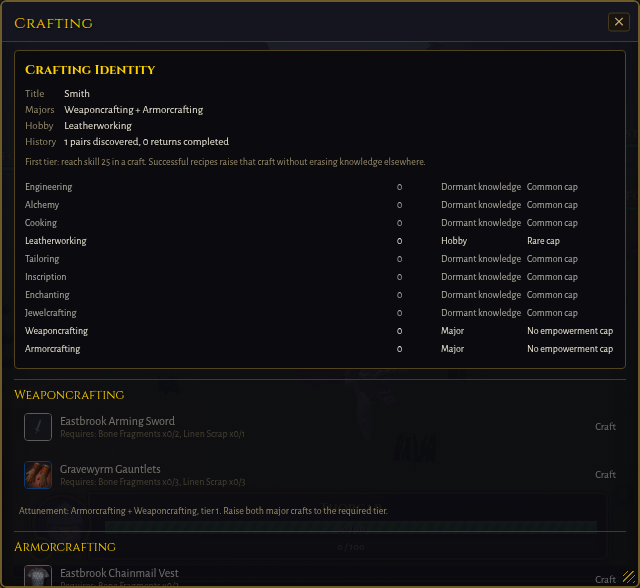
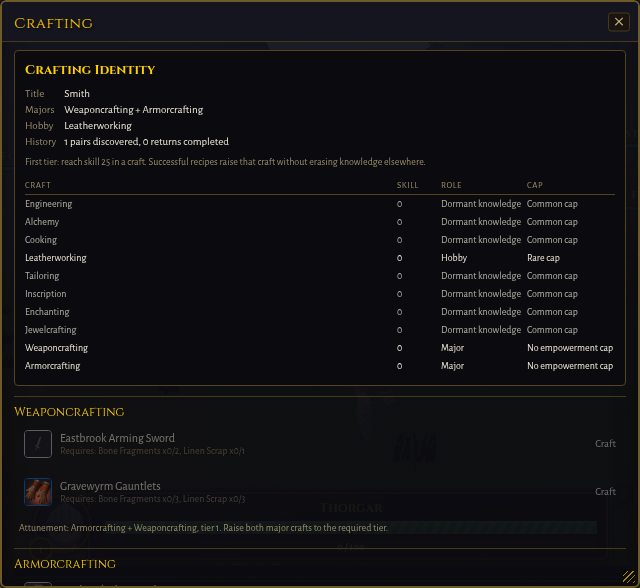
feat(ui): label the identity card skill columns
The skill table read as bare values (a lone 0 under no heading, role
and cap labels with no context), so add a quiet uppercase header row
over the four columns: Craft, Skill, Role, Cap. The header subgrids
into the shared list tracks, stays aria-hidden (each row already reads
as the full skillAria sentence), and drops its Cap cell on mobile where
that column wraps under each row. The completeness gate requires the
non-Latin fills for the new labels, mirrored from each locale glossary.

diff --git a/src/ui/i18n.resolved.generated/pending.ts b/src/ui/i18n.resolved.generated/pending.ts
@@ -77,6 +77,10 @@ export const pending: Record<string, readonly string[]> = {
     "hudChrome.crafting.identity.ceilingCommon",
     "hudChrome.crafting.identity.ceilingRare",
     "hudChrome.crafting.identity.ceilingUnlimited",
+    "hudChrome.crafting.identity.colCap",
+    "hudChrome.crafting.identity.colCraft",
+    "hudChrome.crafting.identity.colRole",
+    "hudChrome.crafting.identity.colSkill",
     "hudChrome.crafting.identity.dormantKnowledge",
     "hudChrome.crafting.identity.history",
     "hudChrome.crafting.identity.historyLabel",
@@ -168,6 +172,10 @@ export const pending: Record<string, readonly string[]> = {
     "hudChrome.crafting.identity.ceilingCommon",
     "hudChrome.crafting.identity.ceilingRare",
     "hudChrome.crafting.identity.ceilingUnlimited",
+    "hudChrome.crafting.identity.colCap",
+    "hudChrome.crafting.identity.colCraft",
+    "hudChrome.crafting.identity.colRole",
+    "hudChrome.crafting.identity.colSkill",
     "hudChrome.crafting.identity.dormantKnowledge",
     "hudChrome.crafting.identity.history",
     "hudChrome.crafting.identity.historyLabel",
@@ -259,6 +267,10 @@ export const pending: Record<string, readonly string[]> = {
     "hudChrome.crafting.identity.ceilingCommon",
     "hudChrome.crafting.identity.ceilingRare",
     "hudChrome.crafting.identity.ceilingUnlimited",
+    "hudChrome.crafting.identity.colCap",
+    "hudChrome.crafting.identity.colCraft",
+    "hudChrome.crafting.identity.colRole",
+    "hudChrome.crafting.identity.colSkill",
     "hudChrome.crafting.identity.dormantKnowledge",
     "hudChrome.crafting.identity.history",
     "hudChrome.crafting.identity.historyLabel",
@@ -350,6 +362,10 @@ export const pending: Record<string, readonly string[]> = {
     "hudChrome.crafting.identity.ceilingCommon",
     "hudChrome.crafting.identity.ceilingRare",
     "hudChrome.crafting.identity.ceilingUnlimited",
+    "hudChrome.crafting.identity.colCap",
+    "hudChrome.crafting.identity.colCraft",
+    "hudChrome.crafting.identity.colRole",
+    "hudChrome.crafting.identity.colSkill",
     "hudChrome.crafting.identity.dormantKnowledge",
     "hudChrome.crafting.identity.history",
     "hudChrome.crafting.identity.historyLabel",
@@ -442,6 +458,10 @@ export const pending: Record<string, readonly string[]> = {
     "hudChrome.crafting.identity.ceilingCommon",
     "hudChrome.crafting.identity.ceilingRare",
     "hudChrome.crafting.identity.ceilingUnlimited",
+    "hudChrome.crafting.identity.colCap",
+    "hudChrome.crafting.identity.colCraft",
+    "hudChrome.crafting.identity.colRole",
+    "hudChrome.crafting.identity.colSkill",
     "hudChrome.crafting.identity.dormantKnowledge",
     "hudChrome.crafting.identity.history",
     "hudChrome.crafting.identity.historyLabel",
@@ -533,6 +553,10 @@ export const pending: Record<string, readonly string[]> = {
     "hudChrome.crafting.identity.ceilingCommon",
     "hudChrome.crafting.identity.ceilingRare",
     "hudChrome.crafting.identity.ceilingUnlimited",
+    "hudChrome.crafting.identity.colCap",
+    "hudChrome.crafting.identity.colCraft",
+    "hudChrome.crafting.identity.colRole",
+    "hudChrome.crafting.identity.colSkill",
     "hudChrome.crafting.identity.dormantKnowledge",
     "hudChrome.crafting.identity.history",
     "hudChrome.crafting.identity.historyLabel",
@@ -640,6 +664,10 @@ export const pending: Record<string, readonly string[]> = {
     "hudChrome.crafting.identity.ceilingCommon",
     "hudChrome.crafting.identity.ceilingRare",
     "hudChrome.crafting.identity.ceilingUnlimited",
+    "hudChrome.crafting.identity.colCap",
+    "hudChrome.crafting.identity.colCraft",
+    "hudChrome.crafting.identity.colRole",
+    "hudChrome.crafting.identity.colSkill",
     "hudChrome.crafting.identity.dormantKnowledge",
     "hudChrome.crafting.identity.history",
     "hudChrome.crafting.identity.historyLabel",
@@ -735,6 +763,10 @@ export const pending: Record<string, readonly string[]> = {
     "hudChrome.crafting.identity.ceilingCommon",
     "hudChrome.crafting.identity.ceilingRare",
     "hudChrome.crafting.identity.ceilingUnlimited",
+    "hudChrome.crafting.identity.colCap",
+    "hudChrome.crafting.identity.colCraft",
+    "hudChrome.crafting.identity.colRole",
+    "hudChrome.crafting.identity.colSkill",
     "hudChrome.crafting.identity.dormantKnowledge",
     "hudChrome.crafting.identity.history",
     "hudChrome.crafting.identity.historyLabel",
@@ -826,6 +858,10 @@ export const pending: Record<string, readonly string[]> = {
     "hudChrome.crafting.identity.ceilingCommon",
     "hudChrome.crafting.identity.ceilingRare",
     "hudChrome.crafting.identity.ceilingUnlimited",
+    "hudChrome.crafting.identity.colCap",
+    "hudChrome.crafting.identity.colCraft",
+    "hudChrome.crafting.identity.colRole",
+    "hudChrome.crafting.identity.colSkill",
     "hudChrome.crafting.identity.dormantKnowledge",
     "hudChrome.crafting.identity.history",
     "hudChrome.crafting.identity.historyLabel",
@@ -917,6 +953,10 @@ export const pending: Record<string, readonly string[]> = {
     "hudChrome.crafting.identity.ceilingCommon",
     "hudChrome.crafting.identity.ceilingRare",
     "hudChrome.crafting.identity.ceilingUnlimited",
+    "hudChrome.crafting.identity.colCap",
+    "hudChrome.crafting.identity.colCraft",
+    "hudChrome.crafting.identity.colRole",
+    "hudChrome.crafting.identity.colSkill",
     "hudChrome.crafting.identity.dormantKnowledge",
     "hudChrome.crafting.identity.history",
     "hudChrome.crafting.identity.historyLabel",
@@ -1008,6 +1048,10 @@ export const pending: Record<string, readonly string[]> = {
     "hudChrome.crafting.identity.ceilingCommon",
     "hudChrome.crafting.identity.ceilingRare",
     "hudChrome.crafting.identity.ceilingUnlimited",
+    "hudChrome.crafting.identity.colCap",
+    "hudChrome.crafting.identity.colCraft",
+    "hudChrome.crafting.identity.colRole",
+    "hudChrome.crafting.identity.colSkill",
     "hudChrome.crafting.identity.dormantKnowledge",
     "hudChrome.crafting.identity.history",
     "hudChrome.crafting.identity.historyLabel",
@@ -1099,6 +1143,10 @@ export const pending: Record<string, readonly string[]> = {
     "hudChrome.crafting.identity.ceilingCommon",
     "hudChrome.crafting.identity.ceilingRare",
     "hudChrome.crafting.identity.ceilingUnlimited",
+    "hudChrome.crafting.identity.colCap",
+    "hudChrome.crafting.identity.colCraft",
+    "hudChrome.crafting.identity.colRole",
+    "hudChrome.crafting.identity.colSkill",
     "hudChrome.crafting.identity.dormantKnowledge",
     "hudChrome.crafting.identity.history",
     "hudChrome.crafting.identity.historyLabel",
@@ -1190,6 +1238,10 @@ export const pending: Record<string, readonly string[]> = {
     "hudChrome.crafting.identity.ceilingCommon",
     "hudChrome.crafting.identity.ceilingRare",
     "hudChrome.crafting.identity.ceilingUnlimited",
+    "hudChrome.crafting.identity.colCap",
+    "hudChrome.crafting.identity.colCraft",
+    "hudChrome.crafting.identity.colRole",
+    "hudChrome.crafting.identity.colSkill",
     "hudChrome.crafting.identity.dormantKnowledge",
     "hudChrome.crafting.identity.history",
     "hudChrome.crafting.identity.historyLabel",
@@ -1281,6 +1333,10 @@ export const pending: Record<string, readonly string[]> = {
     "hudChrome.crafting.identity.ceilingCommon",
     "hudChrome.crafting.identity.ceilingRare",
     "hudChrome.crafting.identity.ceilingUnlimited",
+    "hudChrome.crafting.identity.colCap",
+    "hudChrome.crafting.identity.colCraft",
+    "hudChrome.crafting.identity.colRole",
+    "hudChrome.crafting.identity.colSkill",
     "hudChrome.crafting.identity.dormantKnowledge",
     "hudChrome.crafting.identity.history",
     "hudChrome.crafting.identity.historyLabel",
@@ -1372,6 +1428,10 @@ export const pending: Record<string, readonly string[]> = {
     "hudChrome.crafting.identity.ceilingCommon",
     "hudChrome.crafting.identity.ceilingRare",
     "hudChrome.crafting.identity.ceilingUnlimited",
+    "hudChrome.crafting.identity.colCap",
+    "hudChrome.crafting.identity.colCraft",
+    "hudChrome.crafting.identity.colRole",
+    "hudChrome.crafting.identity.colSkill",
     "hudChrome.crafting.identity.dormantKnowledge",
     "hudChrome.crafting.identity.history",
     "hudChrome.crafting.identity.historyLabel",

diff --git a/src/styles/components.css b/src/styles/components.css
@@ -4488,6 +4488,17 @@
     padding: 3px 0;
     font-size: 10px;
   }
+  .profession-skill-header {
+    grid-column: 1 / -1;
+    display: grid;
+    grid-template-columns: subgrid;
+    padding: 2px 0 3px;
+    border-bottom: 1px solid var(--color-border-default);
+    color: var(--color-text-muted);
+    font-size: 9px;
+    letter-spacing: 0.06em;
+    text-transform: uppercase;
+  }
   .profession-skill-row.role-dormant {
     opacity: 0.72;
   }

diff --git a/tests/profession_identity_card.test.ts b/tests/profession_identity_card.test.ts
@@ -41,6 +41,15 @@ describe('profession identity card painter contract', () => {
     // armorcrafting is the Smith pair); the skill rows render craft names.
     expect(card?.textContent).toContain('Smith');
     expect(card?.textContent).toContain('Armorcrafting');
+    // One visual column-header row over the skill list, hidden from the
+    // accessibility tree (each row reads as the full skillAria sentence).
+    const header = card?.querySelectorAll<HTMLElement>('.profession-skill-header');
+    expect(header).toHaveLength(1);
+    expect(header?.[0].getAttribute('aria-hidden')).toBe('true');
+    const headerLabels = [...(header?.[0].querySelectorAll('span') ?? [])].map(
+      (s) => s.textContent,
+    );
+    expect(headerLabels).toEqual(['Craft', 'Skill', 'Role', 'Cap']);
 
     parent.replaceChildren();
     renderProfessionIdentityCard(
@@ -48,6 +57,8 @@ describe('profession identity card painter contract', () => {
       buildProfessionIdentityView({ ...identity, synced: false }),
     );
     expect(parent.textContent).toContain('Waiting for your crafting identity');
+    // The syncing card has no skill rows, so no floating header row either.
+    expect(parent.querySelectorAll('.profession-skill-header')).toHaveLength(0);
   });
 
   it('renders combo guidance outside the faded disabled craft button', () => {

diff --git a/src/ui/profession_identity_card.ts b/src/ui/profession_identity_card.ts
@@ -61,6 +61,13 @@ export function renderProfessionIdentityCard(
     })
     .join('');
 
+  // Visual column headers only: aria-hidden because every skill row already
+  // carries the complete skillAria sentence, so exposing the headers too would
+  // double-read the table for screen readers.
+  const skillHeader = skillRows
+    ? `<li class="profession-skill-header" aria-hidden="true"><span>${esc(t('hudChrome.crafting.identity.colCraft'))}</span><span>${esc(t('hudChrome.crafting.identity.colSkill'))}</span><span>${esc(t('hudChrome.crafting.identity.colRole'))}</span><span>${esc(t('hudChrome.crafting.identity.colCap'))}</span></li>`
+    : '';
+
   const tutorial = identity.tutorial
     ? `<p class="profession-identity-tutorial">${esc(t('hudChrome.crafting.identity.tutorial', { skill: formatNumber(identity.tutorial.targetSkill, { maximumFractionDigits: 0 }) }))}</p>`
     : '';
@@ -72,6 +79,6 @@ export function renderProfessionIdentityCard(
     )
     .join('');
 
-  card.innerHTML = `<h3>${esc(title)}</h3>${summaryHtml}${tutorial}<ul class="profession-skill-list" role="list">${skillRows}</ul>${nudges ? `<ul class="profession-identity-nudges" role="list">${nudges}</ul>` : ''}`;
+  card.innerHTML = `<h3>${esc(title)}</h3>${summaryHtml}${tutorial}<ul class="profession-skill-list" role="list">${skillHeader}${skillRows}</ul>${nudges ? `<ul class="profession-identity-nudges" role="list">${nudges}</ul>` : ''}`;
   parent.appendChild(card);
 }

diff --git a/src/ui/i18n.catalog/hud_chrome.ts b/src/ui/i18n.catalog/hud_chrome.ts
@@ -2167,6 +2167,12 @@ export const hudChromeStrings = {
       ceilingRare: 'Rare cap',
       ceilingCommon: 'Common cap',
       skillAria: '{craft}, skill {skill}, tier {tier}, {role}, {ceiling}',
+      // Visual column headers over the skill rows (aria-hidden: each row
+      // already reads as the full skillAria sentence).
+      colCraft: 'Craft',
+      colSkill: 'Skill',
+      colRole: 'Role',
+      colCap: 'Cap',
       tutorial:
         'First tier: reach skill {skill} in a craft. Successful recipes raise that craft without erasing knowledge elsewhere.',
       nearTier: '{craft} is {points} skill from its next tier.',

diff --git a/src/styles/hud.mobile.css b/src/styles/hud.mobile.css
@@ -2463,6 +2463,11 @@
   body.mobile-touch .profession-skill-row > :last-child {
     grid-column: 1 / -1;
   }
+  /* The cap value wraps to its own line per row on mobile (no cap column
+     exists), so the Cap column header would float over nothing: hide it. */
+  body.mobile-touch .profession-skill-header > :last-child {
+    display: none;
+  }
   body.mobile-touch .qd-profession-choice select {
     min-height: 40px;
   }

diff --git a/src/ui/i18n.catalog/translation_keys.generated.ts b/src/ui/i18n.catalog/translation_keys.generated.ts
@@ -4597,6 +4597,10 @@ export type TranslationKeyFlat =
   | 'hudChrome.crafting.identity.ceilingCommon'
   | 'hudChrome.crafting.identity.ceilingRare'
   | 'hudChrome.crafting.identity.ceilingUnlimited'
+  | 'hudChrome.crafting.identity.colCap'
+  | 'hudChrome.crafting.identity.colCraft'
+  | 'hudChrome.crafting.identity.colRole'
+  | 'hudChrome.crafting.identity.colSkill'
   | 'hudChrome.crafting.identity.dormantKnowledge'
   | 'hudChrome.crafting.identity.history'
   | 'hudChrome.crafting.identity.historyLabel'

diff --git a/src/ui/i18n.locales/ja_JP.ts b/src/ui/i18n.locales/ja_JP.ts
@@ -6068,6 +6068,10 @@ export const ja_JP: Partial<Record<TranslationKey, string>> = {
   'hudChrome.crafting.identity.ceilingCommon': 'コモン上限',
   'hudChrome.crafting.identity.skillAria':
     '{craft}、技能 {skill}、ティア {tier}、{role}、{ceiling}',
+  'hudChrome.crafting.identity.colCraft': '職種',
+  'hudChrome.crafting.identity.colSkill': '技能',
+  'hudChrome.crafting.identity.colRole': '役割',
+  'hudChrome.crafting.identity.colCap': '上限',
   'hudChrome.crafting.identity.tutorial':
     '最初のティア：いずれかの技を技能 {skill} まで上げます。レシピの成功は他の知識を消さず、その技を成長させます。',
   'hudChrome.crafting.identity.nearTier': '{craft}は次のティアまであと技能 {points} です。',

diff --git a/src/ui/i18n.locales/ko_KR.ts b/src/ui/i18n.locales/ko_KR.ts
@@ -6061,6 +6061,10 @@ export const ko_KR: Partial<Record<TranslationKey, string>> = {
   'hudChrome.crafting.identity.ceilingUnlimited': '강화 상한 없음',
   'hudChrome.crafting.identity.ceilingCommon': '일반 상한',
   'hudChrome.crafting.identity.skillAria': '{craft}, 기술 {skill}, 티어 {tier}, {role}, {ceiling}',
+  'hudChrome.crafting.identity.colCraft': '제작 분야',
+  'hudChrome.crafting.identity.colSkill': '기술',
+  'hudChrome.crafting.identity.colRole': '역할',
+  'hudChrome.crafting.identity.colCap': '상한',
   'hudChrome.crafting.identity.tutorial':
     '첫 티어: 한 기술을 숙련도 {skill}까지 올리세요. 제작에 성공하면 다른 지식을 지우지 않고 해당 기술이 성장합니다.',
   'hudChrome.crafting.identity.nearTier': '{craft}는 다음 티어까지 숙련도 {points}이 필요합니다.',

diff --git a/src/ui/i18n.locales/ru_RU.ts b/src/ui/i18n.locales/ru_RU.ts
@@ -6177,6 +6177,10 @@ export const ru_RU: Partial<Record<TranslationKey, string>> = {
   'hudChrome.crafting.identity.ceilingUnlimited': 'Без потолка усиления',
   'hudChrome.crafting.identity.ceilingCommon': 'Потолок обычного качества',
   'hudChrome.crafting.identity.skillAria': '{craft}, навык {skill}, ранг {tier}, {role}, {ceiling}',
+  'hudChrome.crafting.identity.colCraft': 'Ремесло',
+  'hudChrome.crafting.identity.colSkill': 'Навык',
+  'hudChrome.crafting.identity.colRole': 'Роль',
+  'hudChrome.crafting.identity.colCap': 'Потолок',
   'hudChrome.crafting.identity.tutorial':
     'Первый ранг: достигните навыка {skill} в одном ремесле. Успешные рецепты развивают это ремесло, не стирая остальные знания.',
   'hudChrome.crafting.identity.nearTier':

diff --git a/src/ui/i18n.locales/zh_CN.ts b/src/ui/i18n.locales/zh_CN.ts
@@ -5794,6 +5794,10 @@ export const zh_CN: Partial<Record<TranslationKey, string>> = {
   'hudChrome.crafting.identity.ceilingUnlimited': '无强化上限',
   'hudChrome.crafting.identity.ceilingCommon': '普通品质上限',
   'hudChrome.crafting.identity.skillAria': '{craft}，技能 {skill}，阶级 {tier}，{role}，{ceiling}',
+  'hudChrome.crafting.identity.colCraft': '专业',
+  'hudChrome.crafting.identity.colSkill': '技能',
+  'hudChrome.crafting.identity.colRole': '定位',
+  'hudChrome.crafting.identity.colCap': '上限',
   'hudChrome.crafting.identity.tutorial':
     '第一个阶级：将一门技艺提升到技能 {skill}。成功完成配方会提升对应技艺，且不会抹去其他知识。',
   'hudChrome.crafting.identity.nearTier': '{craft}距离下一阶级还差 {points} 点技能。',

diff --git a/src/ui/i18n.locales/zh_TW.ts b/src/ui/i18n.locales/zh_TW.ts
@@ -5795,6 +5795,10 @@ export const zh_TW: Partial<Record<TranslationKey, string>> = {
   'hudChrome.crafting.identity.ceilingUnlimited': '無強化上限',
   'hudChrome.crafting.identity.ceilingCommon': '普通品質上限',
   'hudChrome.crafting.identity.skillAria': '{craft}，技能 {skill}，階級 {tier}，{role}，{ceiling}',
+  'hudChrome.crafting.identity.colCraft': '專業',
+  'hudChrome.crafting.identity.colSkill': '技能',
+  'hudChrome.crafting.identity.colRole': '定位',
+  'hudChrome.crafting.identity.colCap': '上限',
   'hudChrome.crafting.identity.tutorial':
     '第一個階級：將一門技藝提升到技能 {skill}。成功完成配方會提升對應技藝，且不會抹去其他知識。',
   'hudChrome.crafting.identity.nearTier': '{craft}距離下一階級還差 {points} 點技能。',